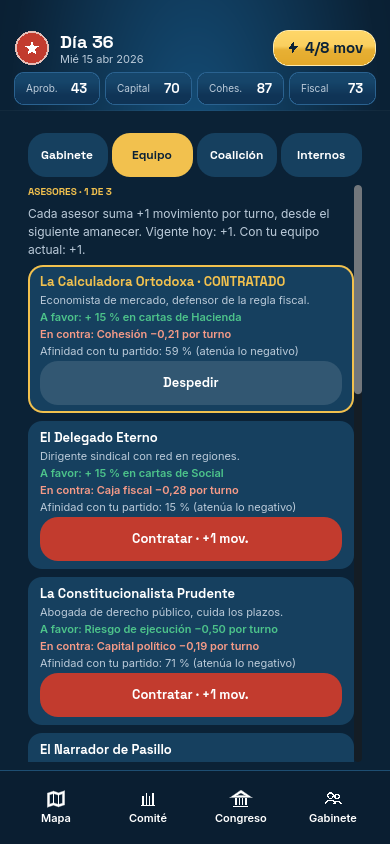
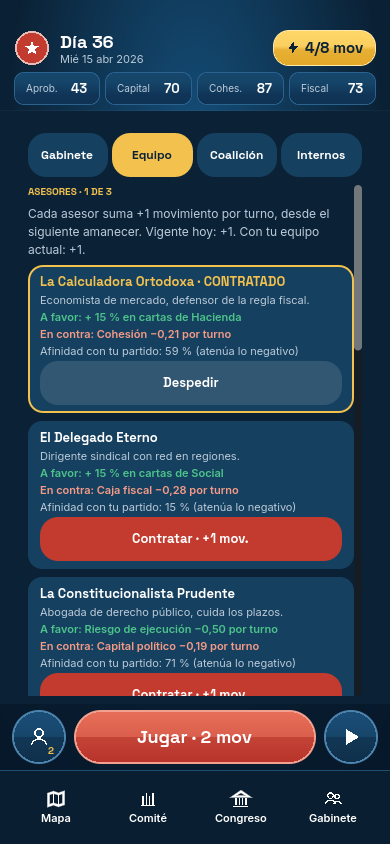
UI v2: cierre de maqueta (abanico legible, botón principal fijo, diferencias documentadas)
- Mano: la carta elegida ya no invade la cabecera; franja del corrector con título, categoría y costo; alto fijo.
- El panel Gabinete deja visible la fila Jugar/avanzar; prueba de humo verifica posición del botón y mapa > 1/3.
- docs/DIFERENCIAS_MAQUETA.md: sección de pantallas v2 con la limitación (sin maqueta Figma) y capturas nuevas.

Claude-Session: https://claude.ai/code/session_015HWWmkz1Pr8xMDB2UDtvZV

Changed region(s): [[0.0308, 0.8009, 0.9846, 0.9242], [0.8923, 0.4005, 0.9538, 0.4621]]

diff --git a/docs/DIFERENCIAS_MAQUETA.md b/docs/DIFERENCIAS_MAQUETA.md
@@ -25,6 +25,22 @@ Regla del proyecto: la maqueta manda. Esta lista deja explícito dónde el juego
 - **Pantalla Nación** con su barra propia (Cartas / Comité / Día N / Congreso / Gabinete), tal como la maqueta.
 - **Pantallas sin maqueta**: menú, test ideológico, fundación del partido y fin de partida. Son necesarias para el Modo Único de la Enmienda; se construyeron con los mismos componentes congelados (paleta, tipografías, zonas táctiles ≥ 44 px). No existe referencia en Figma para ellas.
 
+## Pantallas v2 (gabinete, movimientos, delegación, asesores, coalición, internos) — revisión del 23-nov-2026
+**Limitación:** no existe maqueta en Figma ni el Documento Maestro (PDF) dibuja estas pantallas: son extensiones de `docs/DISENO_V2.md`. La comparación se hizo sobre lo que el PDF sí fija (paleta, tipografías, 390×844, componentes Carta / Corrector / Botón de jugar, reglas de pantalla de la p. 9: mapa > 1/3, mano en abanico, botón principal fijo) y sobre `docs/comparacion/dia_maqueta_vs_juego.png`. Capturas nuevas: `docs/comparacion/v2_*.png` (`tests/captura_comparar.gd`); lado a lado con la maqueta del día: `v2_dia_maqueta_vs_juego.png`. Los paneles nuevos reutilizan Tema, Barras y la hoja inferior (paleta congelada, Space Grotesk / Inter, zonas táctiles ≥ 44 px, sin emojis).
+
+| Elemento | Maqueta | Juego | Motivo / estado |
+|---|---|---|---|
+| Botón "Jugar · 2 PA" y pastilla "16 PA" | PA | "Jugar · 2 mov", "4/8 mov" | DISENO_V2 renombra PA a movimientos y suma bono por aprobación y asesores. Texto, no estilo. |
+| Texto de la mano | "Toca una carta · 5 en mano" | "base 5 · aprob. +2 · asesor +1" | Explica el origen de los movimientos del turno. |
+| Franja del corrector | Una franja con el corrector | Primera línea con título, categoría y costo de la carta elegida, y alto fijo | El abanico tapa los títulos de las no elegidas (regla de la maqueta: solo la elegida muestra todo). Corregido: antes el título no se leía completo. |
+| Carta elegida | Sube con marco dorado | Sube y crece sin invadir la cabecera "Tu mano" | Bug corregido: con la carta 1 elegida cubría "Tu mano". |
+| Botón de delegar | Ícono de persona | Mismo ícono + insignia con delegaciones restantes | Compacto; el detalle va en la hoja de delegación. |
+| Hoja de delegación, panel Gabinete (4 pestañas), selector de 8 ministros | Sin maqueta | Hoja inferior y filas de varias líneas sobre `PANEL`/`OCEANO` | Nuevos; contraste del texto rojo pequeño aclarado a `#F59A87` (`FilasUI.ROJO_TEXTO`) para llegar a 4,5:1 sobre el panel. |
+| Pantalla de configuración de gabinete | Sin maqueta | Botón "Comenzar campaña" fijo al pie; la fundación del partido lo tiene al final del contenido | Diferencia abierta: unificar la posición con la pantalla de fundación. |
+| Mapa visible con el panel Gabinete abierto | Mapa > 1/3 en el día | El panel tapa el mapa (igual que Comité y Congreso) y deja visible la fila Jugar / avanzar | Excepción de hoja a pantalla completa; en la vista de día el mapa mide 290 de 844 px (34,4 %), verificado en `tests/test_ui_humo.gd`. |
+
+Verificación automática (`tests/test_ui_humo.gd`): el botón principal conserva su rectángulo al cambiar de carta y con cada pestaña del panel Gabinete abierta, y el panel nunca lo cubre.
+
 ## Pendiente
 - Trazado propio (estaciones sobre grafo + sliders): extensión de la Fase 3 del Documento Maestro (niveles 2 y 3), sobre el grafo real de calles principales de Gran Santiago (2.459 nodos). Costos y expropiaciones son ilustrativos.
 - Reflejar estas mejoras en la maqueta de Figma (no se hizo: requiere gastar créditos de IA del plan y decisión del usuario).
